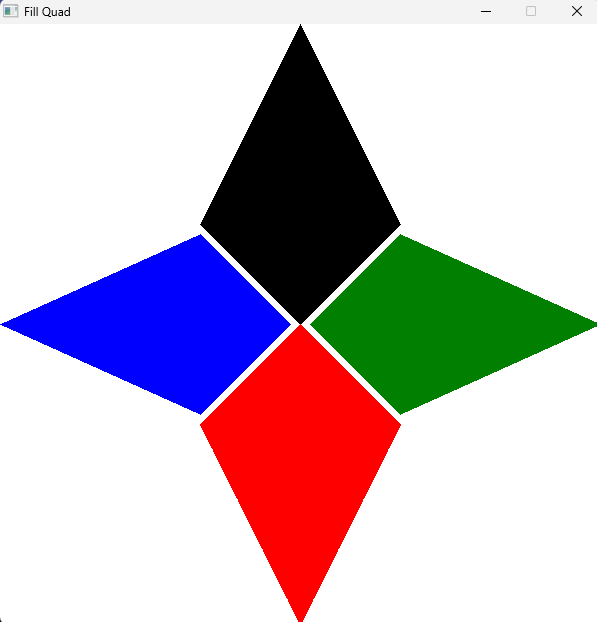
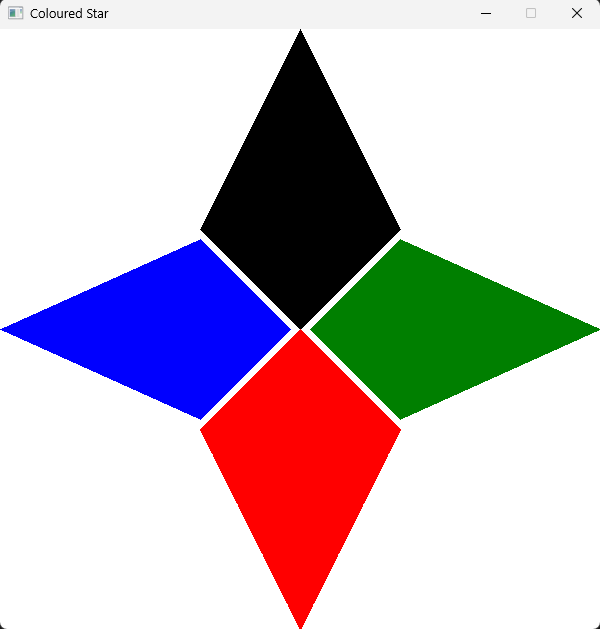
Updated OOP, reformatted code, updated description

diff --git a/public/usage-examples/graphics/fill_quad/fill_quad-1-simple-oop.cs b/public/usage-examples/graphics/fill_quad/fill_quad-1-simple-oop.cs
@@ -6,27 +6,25 @@ namespace FillQuad
     {
         public static void Main()
         {
-            // Initialise quads with x1,y1,...,x4,y4
-            Quad q1 = SplashKit.QuadFrom(400,200,300,300,300,0,200,200);
-            Quad q2 = SplashKit.QuadFrom(400,210,310, 300,600,300,400,390);
-            Quad q3 = SplashKit.QuadFrom(200,400,300, 300,300,600,400,400);
-            Quad q4 = SplashKit.QuadFrom(200,390,290, 300,0,300,200,210);
+            // Initialise quads with x1, y1, ..., x4, y4
+            Quad Q1 = SplashKit.QuadFrom(400, 200, 300, 300, 300, 0, 200, 200);
+            Quad Q2 = SplashKit.QuadFrom(400, 210, 310, 300, 600, 300, 400, 390);
+            Quad Q3 = SplashKit.QuadFrom(200, 400, 300, 300, 300, 600, 400, 400);
+            Quad Q4 = SplashKit.QuadFrom(200, 390, 290, 300, 0, 300, 200, 210);
 
             // Create Window
+            SplashKit.OpenWindow("Coloured Star", 600, 600);
+            SplashKit.ClearScreen(Color.White);
 
-            SplashKit.OpenWindow("Fill Quad", 600, 600);
-            SplashKit.ClearScreen(SplashKit.ColorWhite());
-
-
-            SplashKit.FillQuad(SplashKit.ColorBlack(), q1);
-            SplashKit.FillQuad(SplashKit.ColorGreen(), q2);
-            SplashKit.FillQuad(SplashKit.ColorRed(), q3);
-            SplashKit.FillQuad(SplashKit.ColorBlue(), q4);
-            
+            // Fill the quads with colors
+            SplashKit.FillQuad(Color.Black, Q1);
+            SplashKit.FillQuad(Color.Green, Q2);
+            SplashKit.FillQuad(Color.Red, Q3);
+            SplashKit.FillQuad(Color.Blue, Q4);
 
             SplashKit.RefreshScreen();
             SplashKit.Delay(5000);
             SplashKit.CloseAllWindows();
-        }    
+        }
     }
 }

diff --git a/public/usage-examples/graphics/fill_quad/fill_quad-1-simple-top-level.cs b/public/usage-examples/graphics/fill_quad/fill_quad-1-simple-top-level.cs
@@ -1,24 +1,20 @@
 using SplashKitSDK;
 using static SplashKitSDK.SplashKit;
 
-
-//Initialise quads with x1,y1,...,x4,y4
-Quad q1 = QuadFrom(400,200,300,300,300,0,200,200);   
-Quad q2 = QuadFrom(400,210,310, 300,600,300,400,390);
-Quad q3 = QuadFrom(200,400,300, 300,300,600,400,400);
-Quad q4 = QuadFrom(200,390,290, 300,0,300,200,210);   
-
+// Initialise quads with x1, y1, ..., x4, y4
+Quad Q1 = QuadFrom(400, 200, 300, 300, 300, 0, 200, 200);
+Quad Q2 = QuadFrom(400, 210, 310, 300, 600, 300, 400, 390);
+Quad Q3 = QuadFrom(200, 400, 300, 300, 300, 600, 400, 400);
+Quad Q4 = QuadFrom(200, 390, 290, 300, 0, 300, 200, 210);
 
 // Create Window
-
-OpenWindow("Fill Quad", 600, 600);
+OpenWindow("Coloured Star", 600, 600);
 ClearScreen(ColorWhite());
 
-
-FillQuad(ColorBlack(), q1);
-FillQuad(ColorGreen(), q2);
-FillQuad(ColorRed(), q3);
-FillQuad(ColorBlue(), q4);
+FillQuad(ColorBlack(), Q1);
+FillQuad(ColorGreen(), Q2);
+FillQuad(ColorRed(), Q3);
+FillQuad(ColorBlue(), Q4);
 
 RefreshScreen();
 Delay(5000);

diff --git a/public/usage-examples/graphics/fill_quad/fill_quad-1-simple.cpp b/public/usage-examples/graphics/fill_quad/fill_quad-1-simple.cpp
@@ -3,24 +3,23 @@
 int main()
 {
     // Initialise quads with x1,y1,...,x4,y4
-    quad q1 = quad_from(400,200,300,300,300,0,200,200);
-    quad q2 = quad_from(400,210,310, 300,600,300,400,390);
-    quad q3 = quad_from(200,400,300, 300,300,600,400,400);
-    quad q4 = quad_from(200,390,290, 300,0,300,200,210);
+    quad q1 = quad_from(400, 200, 300, 300, 300, 0, 200, 200);
+    quad q2 = quad_from(400, 210, 310, 300, 600, 300, 400, 390);
+    quad q3 = quad_from(200, 400, 300, 300, 300, 600, 400, 400);
+    quad q4 = quad_from(200, 390, 290, 300, 0, 300, 200, 210);
     
     // Create Window
-    open_window("Fill Quad", 600, 600);
+    open_window("Coloured Star", 600, 600);
     clear_screen(COLOR_WHITE);
 
-    
     fill_quad(COLOR_BLACK, q1);
     fill_quad(COLOR_GREEN, q2);
     fill_quad(COLOR_RED, q3);
     fill_quad(COLOR_BLUE, q4);
+
     refresh_screen();
     delay(5000);
     close_all_windows();
+
     return 0;
 }
-    
-    

diff --git a/public/usage-examples/graphics/fill_quad/fill_quad-1-simple.py b/public/usage-examples/graphics/fill_quad/fill_quad-1-simple.py
@@ -1,17 +1,14 @@
 from splashkit import *
 
 # Initialise quads with x1,y1,...,x4,y4
-q1 = quad_from(400,200,300,300,300,0,200,200)
-q2 = quad_from(400,210,310, 300,600,300,400,390)
-q3 = quad_from(200,400,300, 300,300,600,400,400)
-q4 = quad_from(200,390,290, 300,0,300,200,210)
-
+q1 = quad_from(400, 200, 300, 300, 300, 0, 200, 200)
+q2 = quad_from(400, 210, 310, 300, 600, 300, 400, 390)
+q3 = quad_from(200, 400, 300, 300, 300, 600, 400, 400)
+q4 = quad_from(200, 390, 290, 300, 0, 300, 200, 210)
 
 # Create Window
-
-open_window("Fill Quad", 600, 600)
+open_window("Coloured Star", 600, 600)
 clear_screen(color_white())
-
 
 fill_quad(color_black(), q1)
 fill_quad(color_green(), q2)
